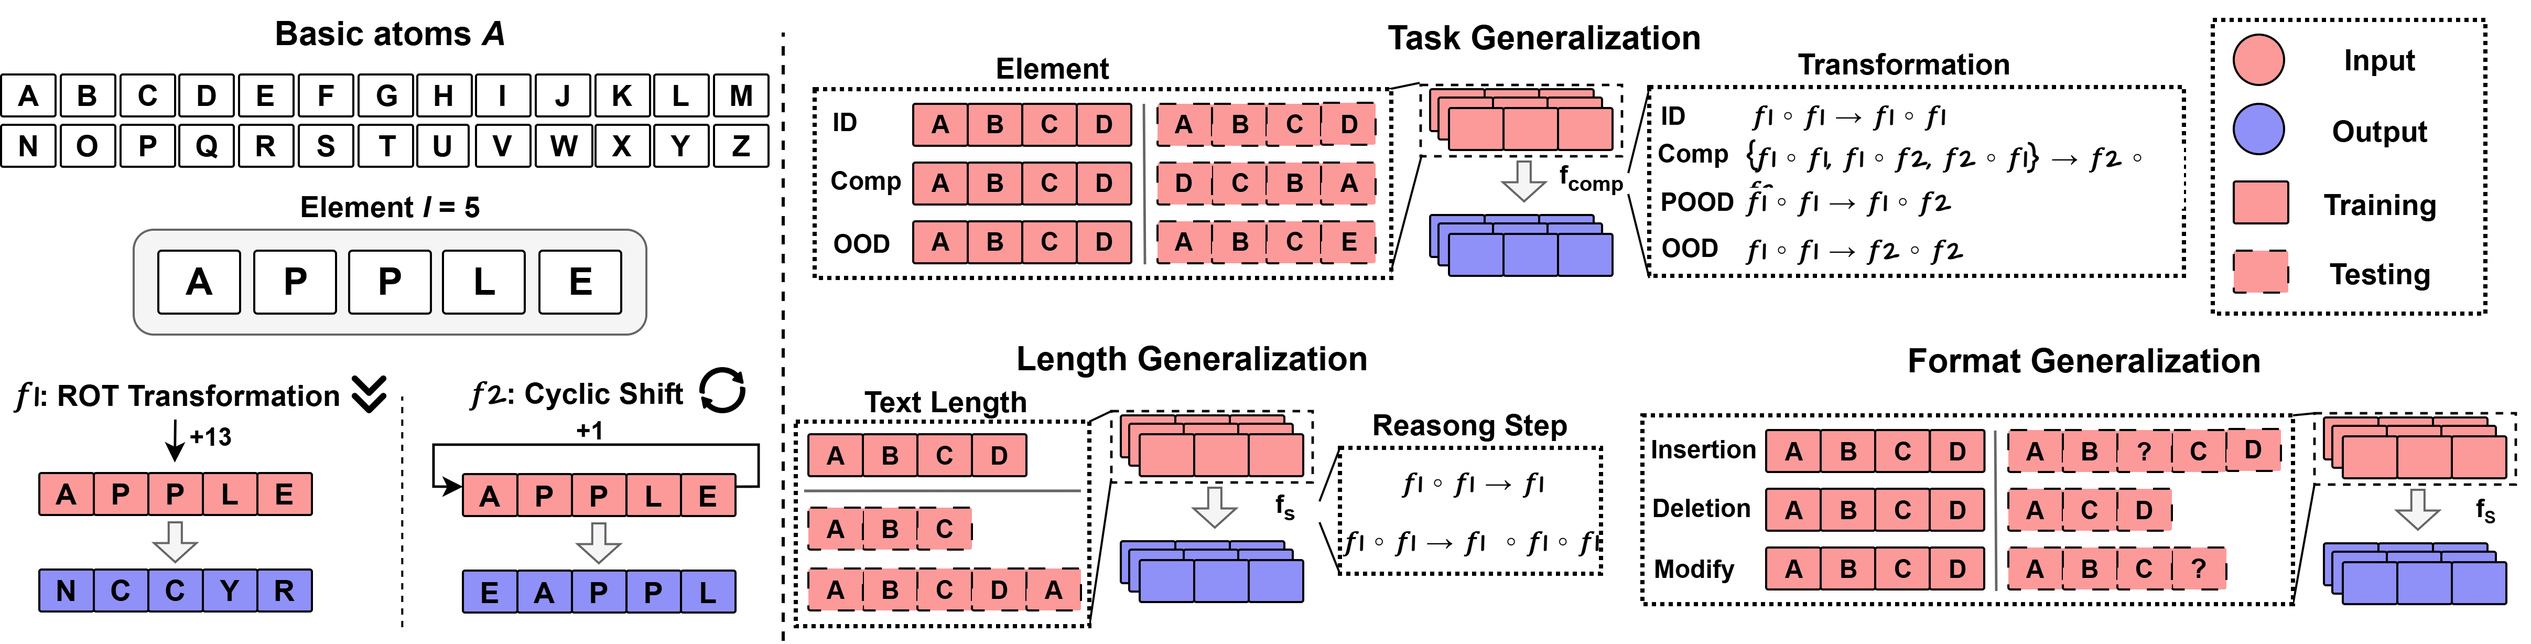
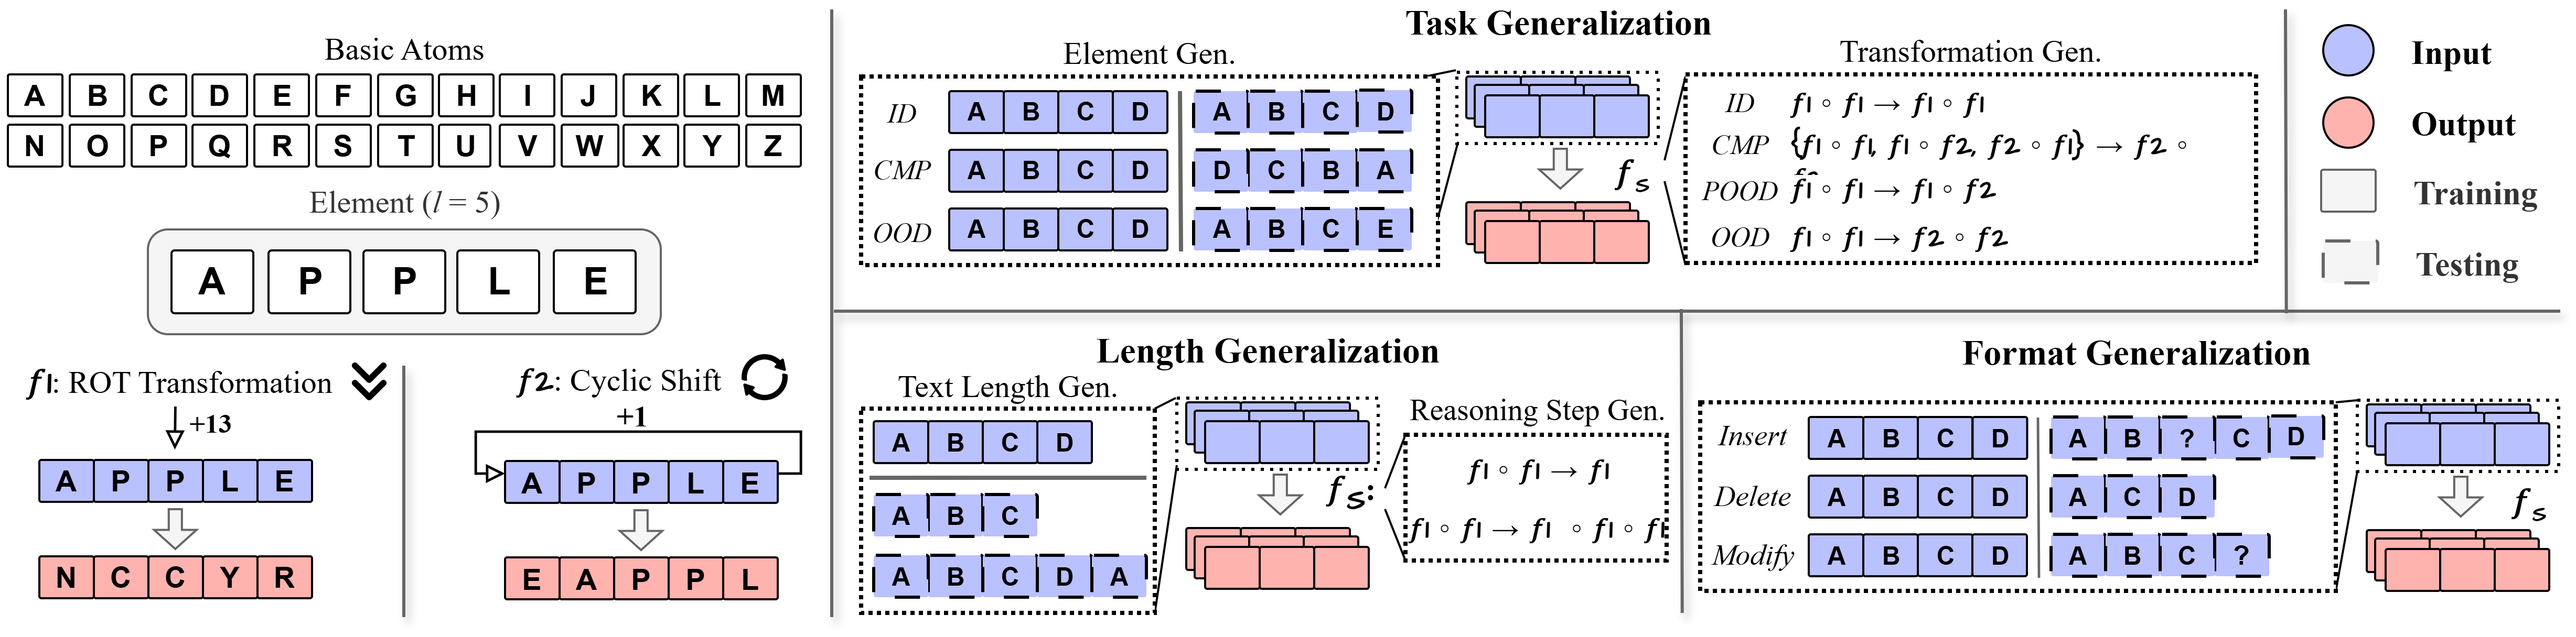
update files

diff --git a/README.md b/README.md
@@ -1,6 +1,6 @@
 # Is Chain-of-Thought Reasoning of LLMs a Mirage? A Data Distribution Lens
 
-[![Paper](https://img.shields.io/badge/Paper-arXiv:TBD-%2340d9b0ff.svg)](https://arxiv.org/abs/) [![Code](https://img.shields.io/badge/Code-GitHub-%2366b3ffff.svg)](https://github.com/ChengshuaiZhao0/DataAlchemy)
+[![Paper](https://img.shields.io/badge/Paper-arXiv:TBD-%23f2806bff.svg)](https://arxiv.org/abs/) [![Code](https://img.shields.io/badge/Code-GitHub-%238a91faff.svg)](https://github.com/ChengshuaiZhao0/DataAlchemy)
 
 This repository contains the official Python implementation of the framework described in the paper **"Is Chain-of-Thought Reasoning of LLMs a Mirage? A Data Distribution Lens."**
 
@@ -8,18 +8,22 @@ This repository contains the official Python implementation of the framework des
 
 - **[08/01/2025]** GitHub repository created. Code release is coming soon.
 
+
+
 ## Introduction
 
 Chain-of-Thought (CoT) prompting has been shown to improve Large Language Model (LLM) performance on various tasks. With this approach, LLMs appear to produce human-like reasoning steps before providing answers (a.k.a., CoT reasoning), which often leads to the perception that they engage in deliberate inferential processes. However, some initial findings suggest that CoT reasoning may be more superficial than it appears, motivating us to explore further. In this paper, we study CoT reasoning via a data distribution lens and investigate if CoT reasoning reflects a structured inductive bias learned from in-distribution data, allowing the model to conditionally generate reasoning paths that approximate those seen during training. Thus, its effectiveness is fundamentally bounded by the degree of distribution discrepancy between the training data and the test queries. With this lens, we dissect CoT reasoning via three dimensions: **task**, **length**, and **format**. To investigate each dimension, we design **DataAlchemy**, an isolated and controlled environment to train LLMs from scratch and systematically probe them under various distribution conditions. Our results reveal that CoT reasoning is a brittle mirage that vanishes when it is pushed beyond training distributions. This work offers a deeper understanding of *why* and *when* CoT reasoning fails, emphasizing the ongoing challenge of achieving genuine and generalizable reasoning. 
 
-![main](figure/main.png)
+<img src="figure/illustration.png" alt="illustration" width="50%">
 
 ## Contribution
 
 ⭐ **Novel perspective.** We propose a data distribution lens for CoT reasoning, illuminating that its effectiveness stems from structured inductive biases learned from in-distribution training data. This framework provides a principled lens for understanding *why* and *when* CoT reasoning succeeds or fails.
 
-⭐ **Controlled environment.** We introduce DataAlchemy an isolated experimental framework that enables training LLMs from scratch and systematically probing CoT reasoning. This controlled setting allows us to isolate and analyze the effects of distribution shifts on CoT reasoning without interference from complex patterns learned during large-scale pre-training.
+⭐ **Controlled environment.** We introduce **DataAlchemy** an isolated experimental framework that enables training LLMs from scratch and systematically probing CoT reasoning. This controlled setting allows us to isolate and analyze the effects of distribution shifts on CoT reasoning without interference from complex patterns learned during large-scale pre-training.
 
 ⭐ **Empirical validation.** We conduct systematic empirical validation across three critical dimensions—*task*, *length*, and *format*. Our experiments demonstrate that CoT reasoning exhibits sharp performance degradation under distribution shifts, revealing that seemingly coherent reasoning masks shallow pattern replication.
 
 ⭐ **Real-world implication.** This work reframes the understanding of contemporary LLMs' reasoning capabilities and emphasizes the risk of over-reliance on CoT reasoning as a universal problem-solving paradigm. It underscores the necessity for proper evaluation methods and the development of LLMs that possess authentic and generalizable reasoning capabilities.
+
+![main](figure/main.png)
